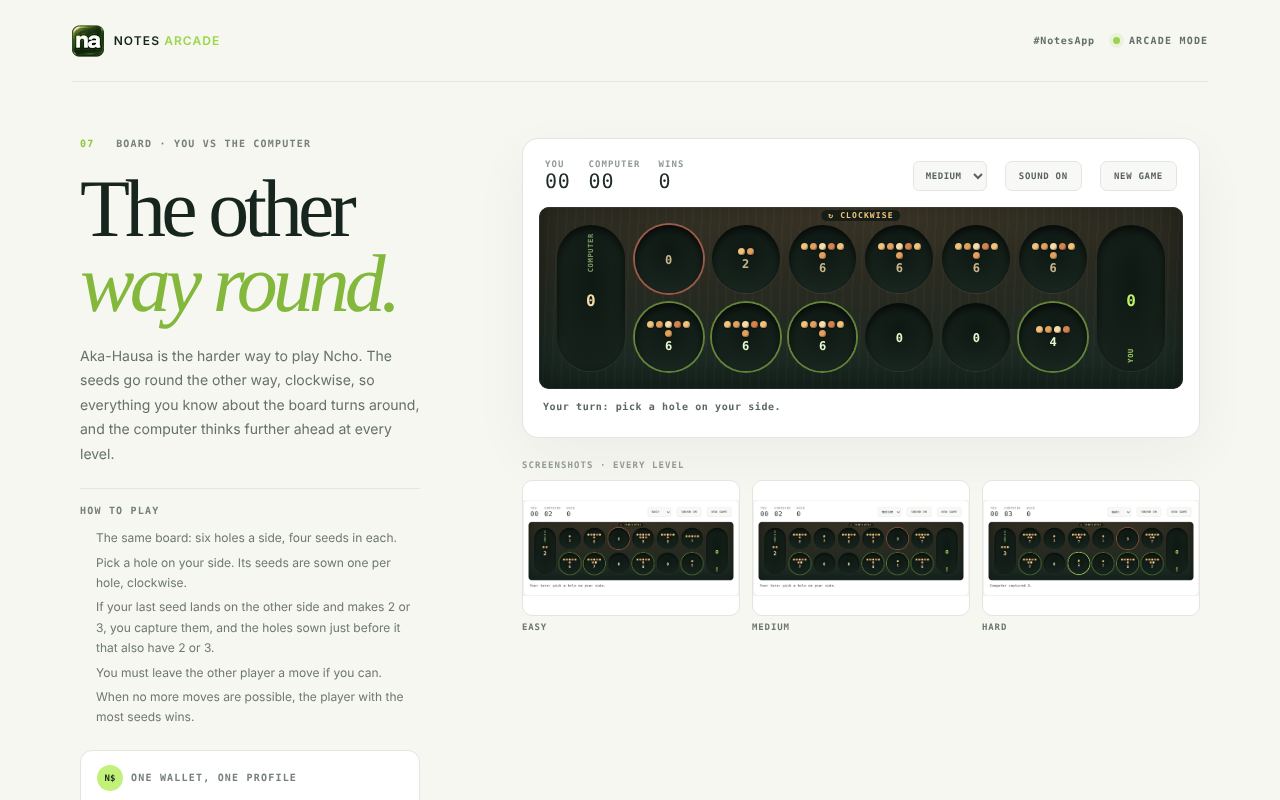
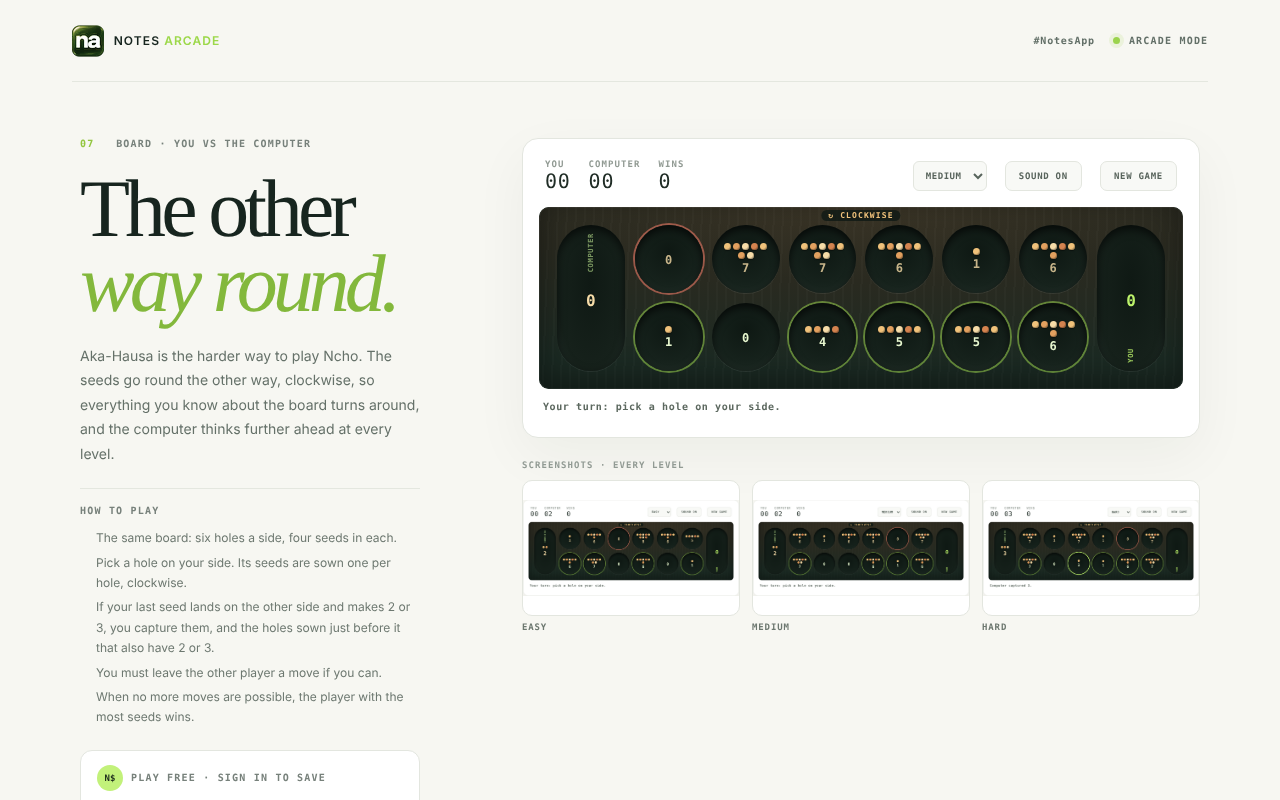
Notes Arcade: free to play without sign-in, guests start afresh; sign in only to save progress and N$
No game pays real naira. Wins and records now live in memory (lib/arcade/store.ts) until the signed-in store arrives.

Claude-Session: https://claude.ai/code/session_01STQhMwWyavn5g4qzYGwLEX

diff --git a/components/games/ArcadeShell.tsx b/components/games/ArcadeShell.tsx
@@ -126,16 +126,17 @@ export function ArcadeGallery({ game }: { game: ArcadeGame }) {
   );
 }
 
-// Arcade money and the #NotesApp account (owner, 20 Nov 2026): every upgrade or money in the Arcade is N$ (Notesville Naira), saved
-// with a #NotesApp login, the same profile and wallet as Notes Life. Saving to the account and player-vs-player come later: until then
-// scores and wins stay in the browser, and this note says so.
+// Arcade money and the #NotesApp account (owner, 20 Nov 2026): playing is free for everyone with no sign-in, but a guest's progress
+// isn't saved and every fresh page load starts afresh (lib/arcade/store.ts). Signing in with #NotesApp is for saving progress, N$ sync,
+// scores and referral bonus credit through the Notes Life wallet; the same profile and N$ balance as Notes Life. No game pays real naira.
 export function ArcadeWalletNote() {
   return (
     <div className="arc-wallet">
-      <p className="arc-wallet-title"><span className="arc-wallet-coin" aria-hidden>N$</span> ONE WALLET, ONE PROFILE</p>
-      <p>Money and upgrades in the Arcade are <strong>N$</strong>, Notesville Naira. Sign in with your #NotesApp account to keep them: your profile and N$ balance are the same as in Notes Life.</p>
-      <p className="arc-wallet-soon">Saving to your account and playing friends, from a chat or with your own playing group, are coming soon. For now your wins stay on this device.</p>
-      <a className="arc-wallet-link" href="/login?next=/arcade">SIGN IN WITH #NOTESAPP ↗</a>
+      <p className="arc-wallet-title"><span className="arc-wallet-coin" aria-hidden>N$</span> PLAY FREE · SIGN IN TO SAVE</p>
+      <p><strong>Play free, no sign-in needed.</strong> As a guest nothing is saved: every time the page loads, you start afresh.</p>
+      <p>Sign in with your #NotesApp account to save your progress, scores and <strong>N$</strong> (Notesville Naira), and earn bonus credit from referrals. Your profile and N$ wallet are the same as in Notes Life.</p>
+      <p className="arc-wallet-soon">N$ is game money: no game pays out real naira. Saving to your account and playing friends, from a chat or with your own playing group, are coming soon.</p>
+      <a className="arc-wallet-link" href="/login?next=/arcade">SIGN IN TO SAVE ↗</a>
       <style jsx global>{`
         .arc-wallet { max-width:340px; margin-top:22px; padding:14px 16px; border:1px solid #e3e6df; border-radius:12px; background:#fff; color:#5c685f; font-size:12px; line-height:1.65; }
         .arc-wallet p { margin:0 0 8px; }.arc-wallet strong { color:#17251f; }

diff --git a/lib/changelog.ts b/lib/changelog.ts
@@ -20,7 +20,7 @@ export const CHANGELOG: Release[] = [
       { kind: "added", text: "Ncho Aka-Hausa, the harder Ncho: the seeds go round clockwise and the computer thinks further ahead." },
       { kind: "added", text: "Naija Landlord's board grows to 32 squares with the big markets: Ariaria in Aba, Nkwo Nnewi, Eke Osumenyi, the Lagos Trade Fair and Alaba International Market, plus Upper Iweka Park." },
       { kind: "added", text: "Every game page shows screenshots: one for each level, or a game from the start to later on." },
-      { kind: "added", text: "Arcade money is N$, Notesville Naira, as in Notes Life: Naija Landlord now counts in N$, and the Arcade says to sign in with your #NotesApp account, with one profile and N$ wallet shared with Notes Life. Saving to your account and playing friends are coming soon." },
+      { kind: "added", text: "Every Arcade game is free to play without signing in; as a guest nothing is saved and each visit starts afresh. Signing in with your #NotesApp account will save your progress, scores and N$ (Notesville Naira, the same wallet and profile as Notes Life) and referral bonus credit. Naija Landlord counts in N$. No game pays out real naira." },
       { kind: "changed", text: "The Arcade's top bar now says Notes Arcade, and its logo takes you to all the games. On arcade.naapp.tech each game has a short address, like arcade.naapp.tech/ludo." },
       { kind: "added", text: "More in the footer: Naija Exam Prep, Nana Tutor, NotesApp Sounds, Write a journal, Business books, the Nana AI portrait studio, Saved, Choose your interests, Kids corner and Install the app. Nana AI and Nana Jobs now sit under For you." },
     ],

diff --git a/components/games/DraughtsGame.tsx b/components/games/DraughtsGame.tsx
@@ -3,6 +3,7 @@
 import { useCallback, useEffect, useMemo, useRef, useState } from "react";
 import ArcadeShell from "@/components/games/ArcadeShell";
 import { arcadeGame } from "@/lib/arcade/catalogue";
+import { arcadeStore } from "@/lib/arcade/store";
 import {
   DRAW_PLIES, applyMove, chooseMove, countPieces, initialState, isDark, legalMoves,
   type Cell, type DraughtsState, type Level,
@@ -46,7 +47,7 @@ export default function DraughtsGame() {
   const mutedRef = useRef(false);
 
   useEffect(() => {
-    try { setWins(Number(window.localStorage.getItem(WINS_KEY)) || 0); } catch { /* storage blocked: start from 0 */ }
+    try { setWins(Number(arcadeStore.getItem(WINS_KEY)) || 0); } catch { /* storage blocked: start from 0 */ }
   }, []);
   const clearTimers = useCallback(() => { timers.current.forEach((t) => window.clearTimeout(t)); timers.current = []; }, []);
   useEffect(() => clearTimers, [clearTimers]);
@@ -88,7 +89,7 @@ export default function DraughtsGame() {
     if (next.over) {
       setPhase("over");
       setStatus(next.winner === 0 ? "You win." : next.winner === 1 ? "Computer wins." : "A draw: 40 moves each with no capture.");
-      if (next.winner === 0) setWins((w) => { try { window.localStorage.setItem(WINS_KEY, String(w + 1)); } catch { /* ignore */ } return w + 1; });
+      if (next.winner === 0) setWins((w) => { try { arcadeStore.setItem(WINS_KEY, String(w + 1)); } catch { /* ignore */ } return w + 1; });
       return;
     }
     const took = m.captures.length ? `${mover} took ${m.captures.length}${m.crowns ? " and crowned a king" : ""}. ` : m.crowns ? `${mover} crowned a king. ` : "";

diff --git a/components/games/NchoGame.tsx b/components/games/NchoGame.tsx
@@ -3,6 +3,7 @@
 import { useCallback, useEffect, useRef, useState } from "react";
 import ArcadeShell from "@/components/games/ArcadeShell";
 import { ARCADE_GAMES, arcadeGame } from "@/lib/arcade/catalogue";
+import { arcadeStore } from "@/lib/arcade/store";
 import { applyMove, chooseMove, initialState, legalMoves, type Level, type NchoState, type NchoVariant } from "@/lib/arcade/ncho";
 
 type Phase = "ready" | "playing" | "over";
@@ -49,7 +50,7 @@ export default function NchoGame({ variant = "ncho" }: { variant?: NchoVariant }
   const mutedRef = useRef(false);
 
   useEffect(() => {
-    try { setWins(Number(window.localStorage.getItem(WINS_KEY)) || 0); } catch { /* storage blocked: start from 0 */ }
+    try { setWins(Number(arcadeStore.getItem(WINS_KEY)) || 0); } catch { /* storage blocked: start from 0 */ }
   }, [WINS_KEY]);
 
   const clearTimers = useCallback(() => {
@@ -89,7 +90,7 @@ export default function NchoGame({ variant = "ncho" }: { variant?: NchoVariant }
       setStatus(next.winner === 0 ? `You win, ${a} to ${b}.` : next.winner === 1 ? `Computer wins, ${b} to ${a}.` : `A draw, ${a} each.`);
       if (next.winner === 0) {
         setWins((w) => {
-          try { window.localStorage.setItem(WINS_KEY, String(w + 1)); } catch { /* ignore */ }
+          try { arcadeStore.setItem(WINS_KEY, String(w + 1)); } catch { /* ignore */ }
           return w + 1;
         });
       }

diff --git a/components/games/SpadesGame.tsx b/components/games/SpadesGame.tsx
@@ -3,6 +3,7 @@
 import { useCallback, useEffect, useRef, useState } from "react";
 import ArcadeShell from "@/components/games/ArcadeShell";
 import { arcadeGame } from "@/lib/arcade/catalogue";
+import { arcadeStore } from "@/lib/arcade/store";
 import {
   SEAT_NAME, SUIT_NAME, applyMove, cardName, computerBid, computerMove, initialState, isLegal, rankLabel, teamOf,
   type Card, type Play, type Seat, type SpadesMove, type SpadesState, type Suit,
@@ -48,7 +49,7 @@ export default function SpadesGame() {
 
   useEffect(() => {
     try {
-      const saved = JSON.parse(window.localStorage.getItem(RECORD_KEY) ?? "null") as Record_ | null;
+      const saved = JSON.parse(arcadeStore.getItem(RECORD_KEY) ?? "null") as Record_ | null;
       if (saved && typeof saved.won === "number" && typeof saved.lost === "number") setRecord(saved);
     } catch { /* storage blocked: keep a fresh record */ }
   }, []);
@@ -76,7 +77,7 @@ export default function SpadesGame() {
     if (next.phase === "over") {
       setRecord((r) => {
         const updated = next.winner === 0 ? { ...r, won: r.won + 1 } : { ...r, lost: r.lost + 1 };
-        try { window.localStorage.setItem(RECORD_KEY, JSON.stringify(updated)); } catch { /* ignore */ }
+        try { arcadeStore.setItem(RECORD_KEY, JSON.stringify(updated)); } catch { /* ignore */ }
         return updated;
       });
     }

diff --git a/components/games/WhotGame.tsx b/components/games/WhotGame.tsx
@@ -3,6 +3,7 @@
 import { useCallback, useEffect, useRef, useState } from "react";
 import ArcadeShell from "@/components/games/ArcadeShell";
 import { arcadeGame } from "@/lib/arcade/catalogue";
+import { arcadeStore } from "@/lib/arcade/store";
 import {
   SHAPES, applyMove, canPlay, cardLabel, computerMove, initialState, shapeLabel, topCard,
   type Card, type Shape, type WhotMove, type WhotState,
@@ -55,7 +56,7 @@ export default function WhotGame() {
 
   useEffect(() => {
     try {
-      const saved = JSON.parse(window.localStorage.getItem(RECORD_KEY) ?? "null") as Record_ | null;
+      const saved = JSON.parse(arcadeStore.getItem(RECORD_KEY) ?? "null") as Record_ | null;
       if (saved && typeof saved.won === "number" && typeof saved.lost === "number") setRecord(saved);
     } catch { /* storage blocked: keep a fresh record */ }
   }, []);
@@ -79,7 +80,7 @@ export default function WhotGame() {
     beep(next.winner === 0 ? 880 : 196, 0.3);
     setRecord((r) => {
       const updated = next.winner === 0 ? { ...r, won: r.won + 1 } : { ...r, lost: r.lost + 1 };
-      try { window.localStorage.setItem(RECORD_KEY, JSON.stringify(updated)); } catch { /* ignore */ }
+      try { arcadeStore.setItem(RECORD_KEY, JSON.stringify(updated)); } catch { /* ignore */ }
       return updated;
     });
   }, [beep]);

diff --git a/components/games/ChessGame.tsx b/components/games/ChessGame.tsx
@@ -3,6 +3,7 @@
 import { useCallback, useEffect, useMemo, useRef, useState, type KeyboardEvent } from "react";
 import ArcadeShell from "@/components/games/ArcadeShell";
 import { arcadeGame } from "@/lib/arcade/catalogue";
+import { arcadeStore } from "@/lib/arcade/store";
 import {
   BISHOP, KING, KNIGHT, QUEEN, ROOK, VALUE, applyMove, chooseMove, gameStatus, initialState, legalMoves, moveToSan,
   pieceColor, pieceType, squareName, type ChessState, type Color, type Level, type Move,
@@ -33,10 +34,10 @@ const DRAW_TEXT: Record<string, string> = {
 };
 
 function readPrefs(): { level?: Level; side?: Color; wins?: number } {
-  try { return JSON.parse(window.localStorage.getItem(PREFS_KEY) || "{}"); } catch { return {}; }
+  try { return JSON.parse(arcadeStore.getItem(PREFS_KEY) || "{}"); } catch { return {}; }
 }
 function writePrefs(p: { level: Level; side: Color; wins: number }) {
-  try { window.localStorage.setItem(PREFS_KEY, JSON.stringify(p)); } catch { /* storage blocked: fine */ }
+  try { arcadeStore.setItem(PREFS_KEY, JSON.stringify(p)); } catch { /* storage blocked: fine */ }
 }
 
 export default function ChessGame() {

diff --git a/components/games/LudoGame.tsx b/components/games/LudoGame.tsx
@@ -4,6 +4,7 @@ import { useCallback, useEffect, useMemo, useRef, useState } from "react";
 import type { CSSProperties } from "react";
 import ArcadeShell from "@/components/games/ArcadeShell";
 import { arcadeGame } from "@/lib/arcade/catalogue";
+import { arcadeStore } from "@/lib/arcade/store";
 import {
   HOME, HOME_COLUMN, PLAYERS, START, STARS, TRACK, YARD, YARD_ORIGIN,
   applyMove, applyRoll, chooseMove, legalMoves, newGame, rollDie, seedCell,
@@ -165,7 +166,7 @@ export default function LudoGame() {
 
   useEffect(() => {
     try {
-      setWins(Number(window.localStorage.getItem(WINS_KEY)) || 0);
+      setWins(Number(arcadeStore.getItem(WINS_KEY)) || 0);
     } catch {
       // storage blocked: just don't remember wins
     }
@@ -216,7 +217,7 @@ export default function LudoGame() {
     if (game.winner !== 0) return;
     setWins((w) => {
       const next = w + 1;
-      try { window.localStorage.setItem(WINS_KEY, String(next)); } catch { /* storage blocked */ }
+      try { arcadeStore.setItem(WINS_KEY, String(next)); } catch { /* storage blocked */ }
       return next;
     });
   }, [game.phase, game.winner]);

diff --git a/components/games/LandlordGame.tsx b/components/games/LandlordGame.tsx
@@ -3,6 +3,7 @@
 import { useCallback, useEffect, useRef, useState } from "react";
 import ArcadeShell from "@/components/games/ArcadeShell";
 import { arcadeGame } from "@/lib/arcade/catalogue";
+import { arcadeStore } from "@/lib/arcade/store";
 import {
   BOARD, CITIES, ROUND_CAP,
   aiAction, applyAction, buildable, canBuy, createGame, formatNaira, netWorth, rentFor, squareCell,
@@ -80,7 +81,7 @@ export default function LandlordGame() {
 
   useEffect(() => {
     try {
-      setWins(Number(window.localStorage.getItem(WINS_KEY)) || 0);
+      setWins(Number(arcadeStore.getItem(WINS_KEY)) || 0);
     } catch {
       /* storage blocked: start from 0 */
     }
@@ -130,7 +131,7 @@ export default function LandlordGame() {
     setWins((w) => {
       const next = w + 1;
       try {
-        window.localStorage.setItem(WINS_KEY, String(next));
+        arcadeStore.setItem(WINS_KEY, String(next));
       } catch {
         /* storage blocked: keep the count for this visit */
       }

diff --git a/lib/arcade/store.ts b/lib/arcade/store.ts
@@ -1,0 +1,14 @@
+// Where the Arcade keeps a player's wins, records and choices (owner, 20 Nov 2026): playing is free without signing in, but a guest's
+// progress isn't saved, so every fresh page load starts afresh. Signing in with #NotesApp will save progress, sync N$, scores and
+// referral bonus credit through the Notes Life wallet (not built yet: this is the one place to connect it). No game pays real naira.
+// Same shape as localStorage so the games don't change when the account store arrives.
+const memory = new Map<string, string>();
+
+export const arcadeStore = {
+  getItem(key: string): string | null {
+    return memory.has(key) ? (memory.get(key) as string) : null;
+  },
+  setItem(key: string, value: string): void {
+    memory.set(key, value);
+  },
+};

diff --git a/components/games/ArcadeHome.tsx b/components/games/ArcadeHome.tsx
@@ -13,7 +13,7 @@ export default function ArcadeHome() {
         <p className="arc-kicker"><span>{String(ARCADE_GAMES.length).padStart(2, "0")}</span> &nbsp; GAMES · FREE · IN YOUR BROWSER</p>
         <h1>Pass the time,<br /><em>play a game.</em></h1>
         <div className="arch-hero-row">
-          <p className="arc-description">Board games, card games and the classics, made for #NotesApp. No download: pick one and play, and sign in to keep your N$ and progress.</p>
+          <p className="arc-description">Board games, card games and the classics, made for #NotesApp. No download, no sign-in: pick one and play. Sign in with #NotesApp only to save your progress and N$.</p>
           <ArcadeWalletNote />
         </div>
       </div>

diff --git a/HANDOVER.md b/HANDOVER.md
@@ -1236,11 +1236,12 @@ All of these are on the team hub board with departments and dates (`lib/team-see
     (9×9 ring) with Eastern markets (Ariaria Aba, Nkwo Nnewi, Eke Osumenyi), Lagos markets (Trade Fair, Alaba Int'l) and Upper Iweka
     Park; park rent is ₦30k per park owned. The Arcade home shows **Notes Life Abuja** (the city picker's "You are welcome" card with a
     real in-game shot inset) and Notes Life Lagos and Port Harcourt as coming soon, using `CITY_CARDS` pictures from `lib/life/catalog.ts`.
-    **Arcade money (owner, 20 Nov 2026): "every upgrade or money in the arcade is N$ and needs notesapp login to save, same profile or
-    wallet balance is shared".** For now only shown: Naija Landlord counts in N$, and `ArcadeWalletNote` (Arcade home and every game
-    page) says sign in to keep N$ and progress, one profile and wallet with Notes Life. **Next, not built yet:** enforce sign-in and save
-    to the account (scores, wins, N$ through the Notes Life wallet in `lib/life/server.ts`), and player vs player: invite from a
-    conversation in Messages and form playing groups.
+    **Arcade money and sign-in (owner, 20 Nov 2026, corrected the same day):** every game is free with no sign-in; a guest's progress is
+    not saved and each fresh page load starts afresh (`lib/arcade/store.ts`, in memory). Signing in with #NotesApp is only for saving
+    progress, N$ sync, scores and referral bonus credit through the Notes Life wallet, one profile with Notes Life. **No game pays real
+    naira.** Shown now: Naija Landlord counts in N$, and `ArcadeWalletNote` (Arcade home and every game page) says all this.
+    **Next, not built yet:** the signed-in store (swap `arcadeStore` for one that saves to the account and syncs N$ through
+    `lib/life/server.ts`), referral bonus credit, and player vs player: invite from a conversation in Messages and form playing groups.
 
 ## 3. How the work is done (please keep these)
 
